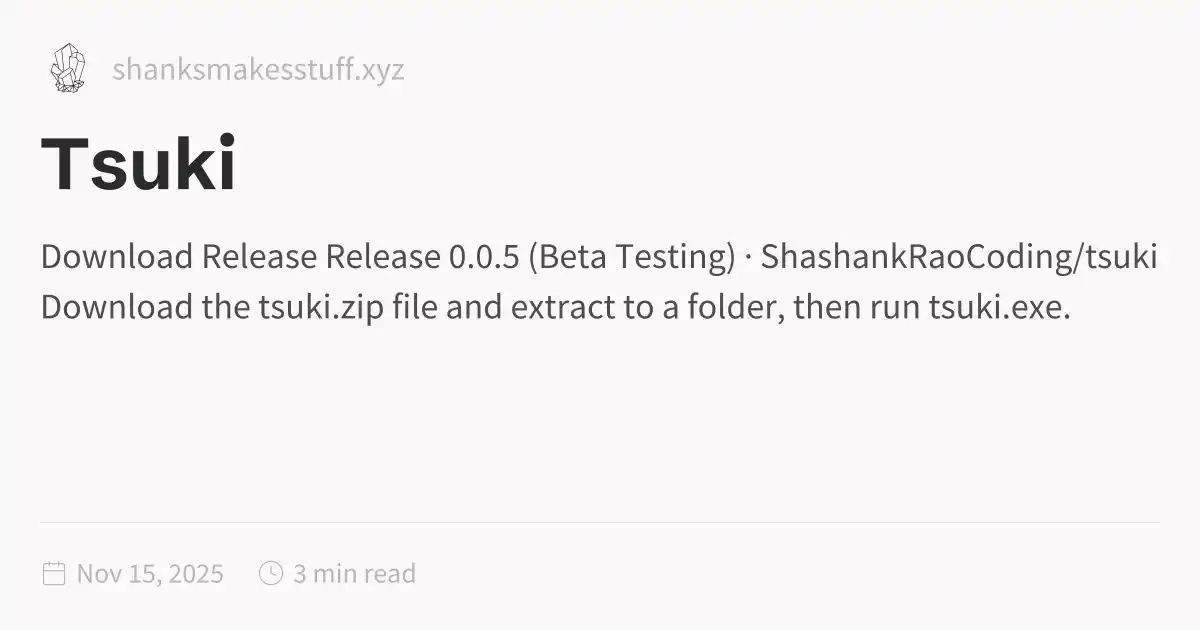
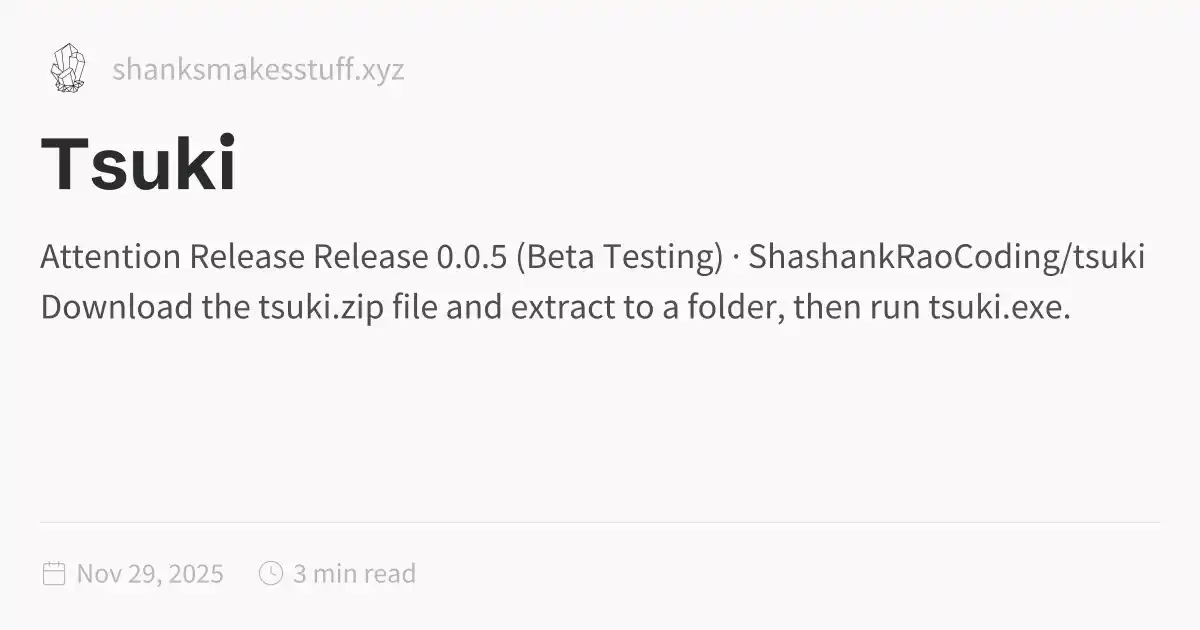
2025-11-29_1401

Changed region(s): [[0.0308, 0.3619, 0.9558, 0.4524]]

diff --git a/Blog/Tsuki.html b/Blog/Tsuki.html
@@ -1,5 +1,5 @@
 <!DOCTYPE html>
-<html lang="en"><head><title>Tsuki</title><meta charset="utf-8"/><link rel="preconnect" href="https://fonts.googleapis.com"/><link rel="preconnect" href="https://fonts.gstatic.com"/><link rel="stylesheet" href="https://fonts.googleapis.com/css2?family=Schibsted Grotesk:wght@400;700&amp;family=Source Sans Pro:ital,wght@0,400;0,600;1,400;1,600&amp;family=IBM Plex Mono:wght@400;600&amp;display=swap"/><link rel="preconnect" href="https://cdnjs.cloudflare.com" crossorigin="anonymous"/><meta name="viewport" content="width=device-width, initial-scale=1.0"/><meta name="og:site_name" content="ShanksMakesStuff"/><meta property="og:title" content="Tsuki"/><meta property="og:type" content="website"/><meta name="twitter:card" content="summary_large_image"/><meta name="twitter:title" content="Tsuki"/><meta name="twitter:description" content="Download Release Release 0.0.5 (Beta Testing) · ShashankRaoCoding/tsuki Download the tsuki.zip file and extract to a folder, then run tsuki.exe."/><meta property="og:description" content="Download Release Release 0.0.5 (Beta Testing) · ShashankRaoCoding/tsuki Download the tsuki.zip file and extract to a folder, then run tsuki.exe."/><meta property="og:image:alt" content="Download Release Release 0.0.5 (Beta Testing) · ShashankRaoCoding/tsuki Download the tsuki.zip file and extract to a folder, then run tsuki.exe."/><meta property="twitter:domain" content="shanksmakesstuff.xyz"/><meta property="og:url" content="https://shanksmakesstuff.xyz/Blog/Tsuki"/><meta property="twitter:url" content="https://shanksmakesstuff.xyz/Blog/Tsuki"/><link rel="icon" href="../static/icon.png"/><meta name="description" content="Download Release Release 0.0.5 (Beta Testing) · ShashankRaoCoding/tsuki Download the tsuki.zip file and extract to a folder, then run tsuki.exe."/><meta name="generator" content="Quartz"/><link href="../index.css" rel="stylesheet" type="text/css" spa-preserve/><style>.expand-button {
+<html lang="en"><head><title>Tsuki</title><meta charset="utf-8"/><link rel="preconnect" href="https://fonts.googleapis.com"/><link rel="preconnect" href="https://fonts.gstatic.com"/><link rel="stylesheet" href="https://fonts.googleapis.com/css2?family=Schibsted Grotesk:wght@400;700&amp;family=Source Sans Pro:ital,wght@0,400;0,600;1,400;1,600&amp;family=IBM Plex Mono:wght@400;600&amp;display=swap"/><link rel="preconnect" href="https://cdnjs.cloudflare.com" crossorigin="anonymous"/><meta name="viewport" content="width=device-width, initial-scale=1.0"/><meta name="og:site_name" content="ShanksMakesStuff"/><meta property="og:title" content="Tsuki"/><meta property="og:type" content="website"/><meta name="twitter:card" content="summary_large_image"/><meta name="twitter:title" content="Tsuki"/><meta name="twitter:description" content="Attention Release Release 0.0.5 (Beta Testing) · ShashankRaoCoding/tsuki Download the tsuki.zip file and extract to a folder, then run tsuki.exe."/><meta property="og:description" content="Attention Release Release 0.0.5 (Beta Testing) · ShashankRaoCoding/tsuki Download the tsuki.zip file and extract to a folder, then run tsuki.exe."/><meta property="og:image:alt" content="Attention Release Release 0.0.5 (Beta Testing) · ShashankRaoCoding/tsuki Download the tsuki.zip file and extract to a folder, then run tsuki.exe."/><meta property="twitter:domain" content="shanksmakesstuff.xyz"/><meta property="og:url" content="https://shanksmakesstuff.xyz/Blog/Tsuki"/><meta property="twitter:url" content="https://shanksmakesstuff.xyz/Blog/Tsuki"/><link rel="icon" href="../static/icon.png"/><meta name="description" content="Attention Release Release 0.0.5 (Beta Testing) · ShashankRaoCoding/tsuki Download the tsuki.zip file and extract to a folder, then run tsuki.exe."/><meta name="generator" content="Quartz"/><link href="../index.css" rel="stylesheet" type="text/css" spa-preserve/><style>.expand-button {
   position: absolute;
   display: flex;
   float: right;
@@ -116,10 +116,10 @@ pre:hover > .expand-button {
   padding: 0 12px;
   font-size: 14px;
 }
[2 lines of base64/hex data omitted]
 <div class="callout-title">
                   <div class="callout-icon"></div>
-                  <div class="callout-title-inner"><p>Download</p></div>
+                  <div class="callout-title-inner"><p>Attention</p></div>
                   
                 </div>
 <div class="callout-content">

diff --git a/Blog/index.html b/Blog/index.html
@@ -116,6 +116,6 @@ pre:hover > .expand-button {
   padding: 0 12px;
   font-size: 14px;
 }
[2 lines of base64/hex data omitted]
 </script><script type="module">function f(i,e){if(!i)return;function r(o){o.target===this&&(o.preventDefault(),o.stopPropagation(),e())}function t(o){o.key.startsWith("Esc")&&(o.preventDefault(),e())}i?.addEventListener("click",r),window.addCleanup(()=>i?.removeEventListener("click",r)),document.addEventListener("keydown",t),window.addCleanup(()=>document.removeEventListener("keydown",t))}function y(i){for(;i.firstChild;)i.removeChild(i.firstChild)}var h=class{constructor(e,r){this.container=e;this.content=r;this.setupEventListeners(),this.setupNavigationControls(),this.resetTransform()}isDragging=!1;startPan={x:0,y:0};currentPan={x:0,y:0};scale=1;MIN_SCALE=.5;MAX_SCALE=3;cleanups=[];setupEventListeners(){let e=this.onMouseDown.bind(this),r=this.onMouseMove.bind(this),t=this.onMouseUp.bind(this),o=this.resetTransform.bind(this);this.container.addEventListener("mousedown",e),document.addEventListener("mousemove",r),document.addEventListener("mouseup",t),window.addEventListener("resize",o),this.cleanups.push(()=>this.container.removeEventListener("mousedown",e),()=>document.removeEventListener("mousemove",r),()=>document.removeEventListener("mouseup",t),()=>window.removeEventListener("resize",o))}cleanup(){for(let e of this.cleanups)e()}setupNavigationControls(){let e=document.createElement("div");e.className="mermaid-controls";let r=this.createButton("+",()=>this.zoom(.1)),t=this.createButton("-",()=>this.zoom(-.1)),o=this.createButton("Reset",()=>this.resetTransform());e.appendChild(t),e.appendChild(o),e.appendChild(r),this.container.appendChild(e)}createButton(e,r){let t=document.createElement("button");return t.textContent=e,t.className="mermaid-control-button",t.addEventListener("click",r),window.addCleanup(()=>t.removeEventListener("click",r)),t}onMouseDown(e){e.button===0&&(this.isDragging=!0,this.startPan={x:e.clientX-this.currentPan.x,y:e.clientY-this.currentPan.y},this.container.style.cursor="grabbing")}onMouseMove(e){this.isDragging&&(e.preventDefault(),this.currentPan={x:e.clientX-this.startPan.x,y:e.clientY-this.startPan.y},this.updateTransform())}onMouseUp(){this.isDragging=!1,this.container.style.cursor="grab"}zoom(e){let r=Math.min(Math.max(this.scale+e,this.MIN_SCALE),this.MAX_SCALE),t=this.content.getBoundingClientRect(),o=t.width/2,n=t.height/2,c=r-this.scale;this.currentPan.x-=o*c,this.currentPan.y-=n*c,this.scale=r,this.updateTransform()}updateTransform(){this.content.style.transform=`translate(${this.currentPan.x}px, ${this.currentPan.y}px) scale(${this.scale})`}resetTransform(){this.scale=1;let e=this.content.querySelector("svg");this.currentPan={x:e.getBoundingClientRect().width/2,y:e.getBoundingClientRect().height/2},this.updateTransform()}},C=["--secondary","--tertiary","--gray","--light","--lightgray","--highlight","--dark","--darkgray","--codeFont"],E;document.addEventListener("nav",async()=>{let e=document.querySelector(".center").querySelectorAll("code.mermaid");if(e.length===0)return;E||=await import("https://cdnjs.cloudflare.com/ajax/libs/mermaid/11.4.0/mermaid.esm.min.mjs");let r=E.default,t=new WeakMap;for(let n of e)t.set(n,n.innerText);async function o(){for(let s of e){s.removeAttribute("data-processed");let a=t.get(s);a&&(s.innerHTML=a)}let n=C.reduce((s,a)=>(s[a]=window.getComputedStyle(document.documentElement).getPropertyValue(a),s),{}),c=document.documentElement.getAttribute("saved-theme")==="dark";r.initialize({startOnLoad:!1,securityLevel:"loose",theme:c?"dark":"base",themeVariables:{fontFamily:n["--codeFont"],primaryColor:n["--light"],primaryTextColor:n["--darkgray"],primaryBorderColor:n["--tertiary"],lineColor:n["--darkgray"],secondaryColor:n["--secondary"],tertiaryColor:n["--tertiary"],clusterBkg:n["--light"],edgeLabelBackground:n["--highlight"]}}),await r.run({nodes:e})}await o(),document.addEventListener("themechange",o),window.addCleanup(()=>document.removeEventListener("themechange",o));for(let n=0;n<e.length;n++){let v=function(){let g=l.querySelector("#mermaid-space"),m=l.querySelector(".mermaid-content");if(!m)return;y(m);let w=c.querySelector("svg").cloneNode(!0);m.appendChild(w),l.classList.add("active"),g.style.cursor="grab",u=new h(g,m)},M=function(){l.classList.remove("active"),u?.cleanup(),u=null},c=e[n],s=c.parentElement,a=s.querySelector(".clipboard-button"),d=s.querySelector(".expand-button"),p=window.getComputedStyle(a),L=a.offsetWidth+parseFloat(p.marginLeft||"0")+parseFloat(p.marginRight||"0");d.style.right=`calc(${L}px + 0.3rem)`,s.prepend(d);let l=s.querySelector("#mermaid-container");if(!l)return;let u=null;d.addEventListener("click",v),f(l,M),window.addCleanup(()=>{u?.cleanup(),d.removeEventListener("click",v)})}});
 </script><script src="https://cdn.jsdelivr.net/npm/katex@0.16.11/dist/contrib/copy-tex.min.js" type="application/javascript"></script><script src="../postscript.js" type="module"></script></html>
